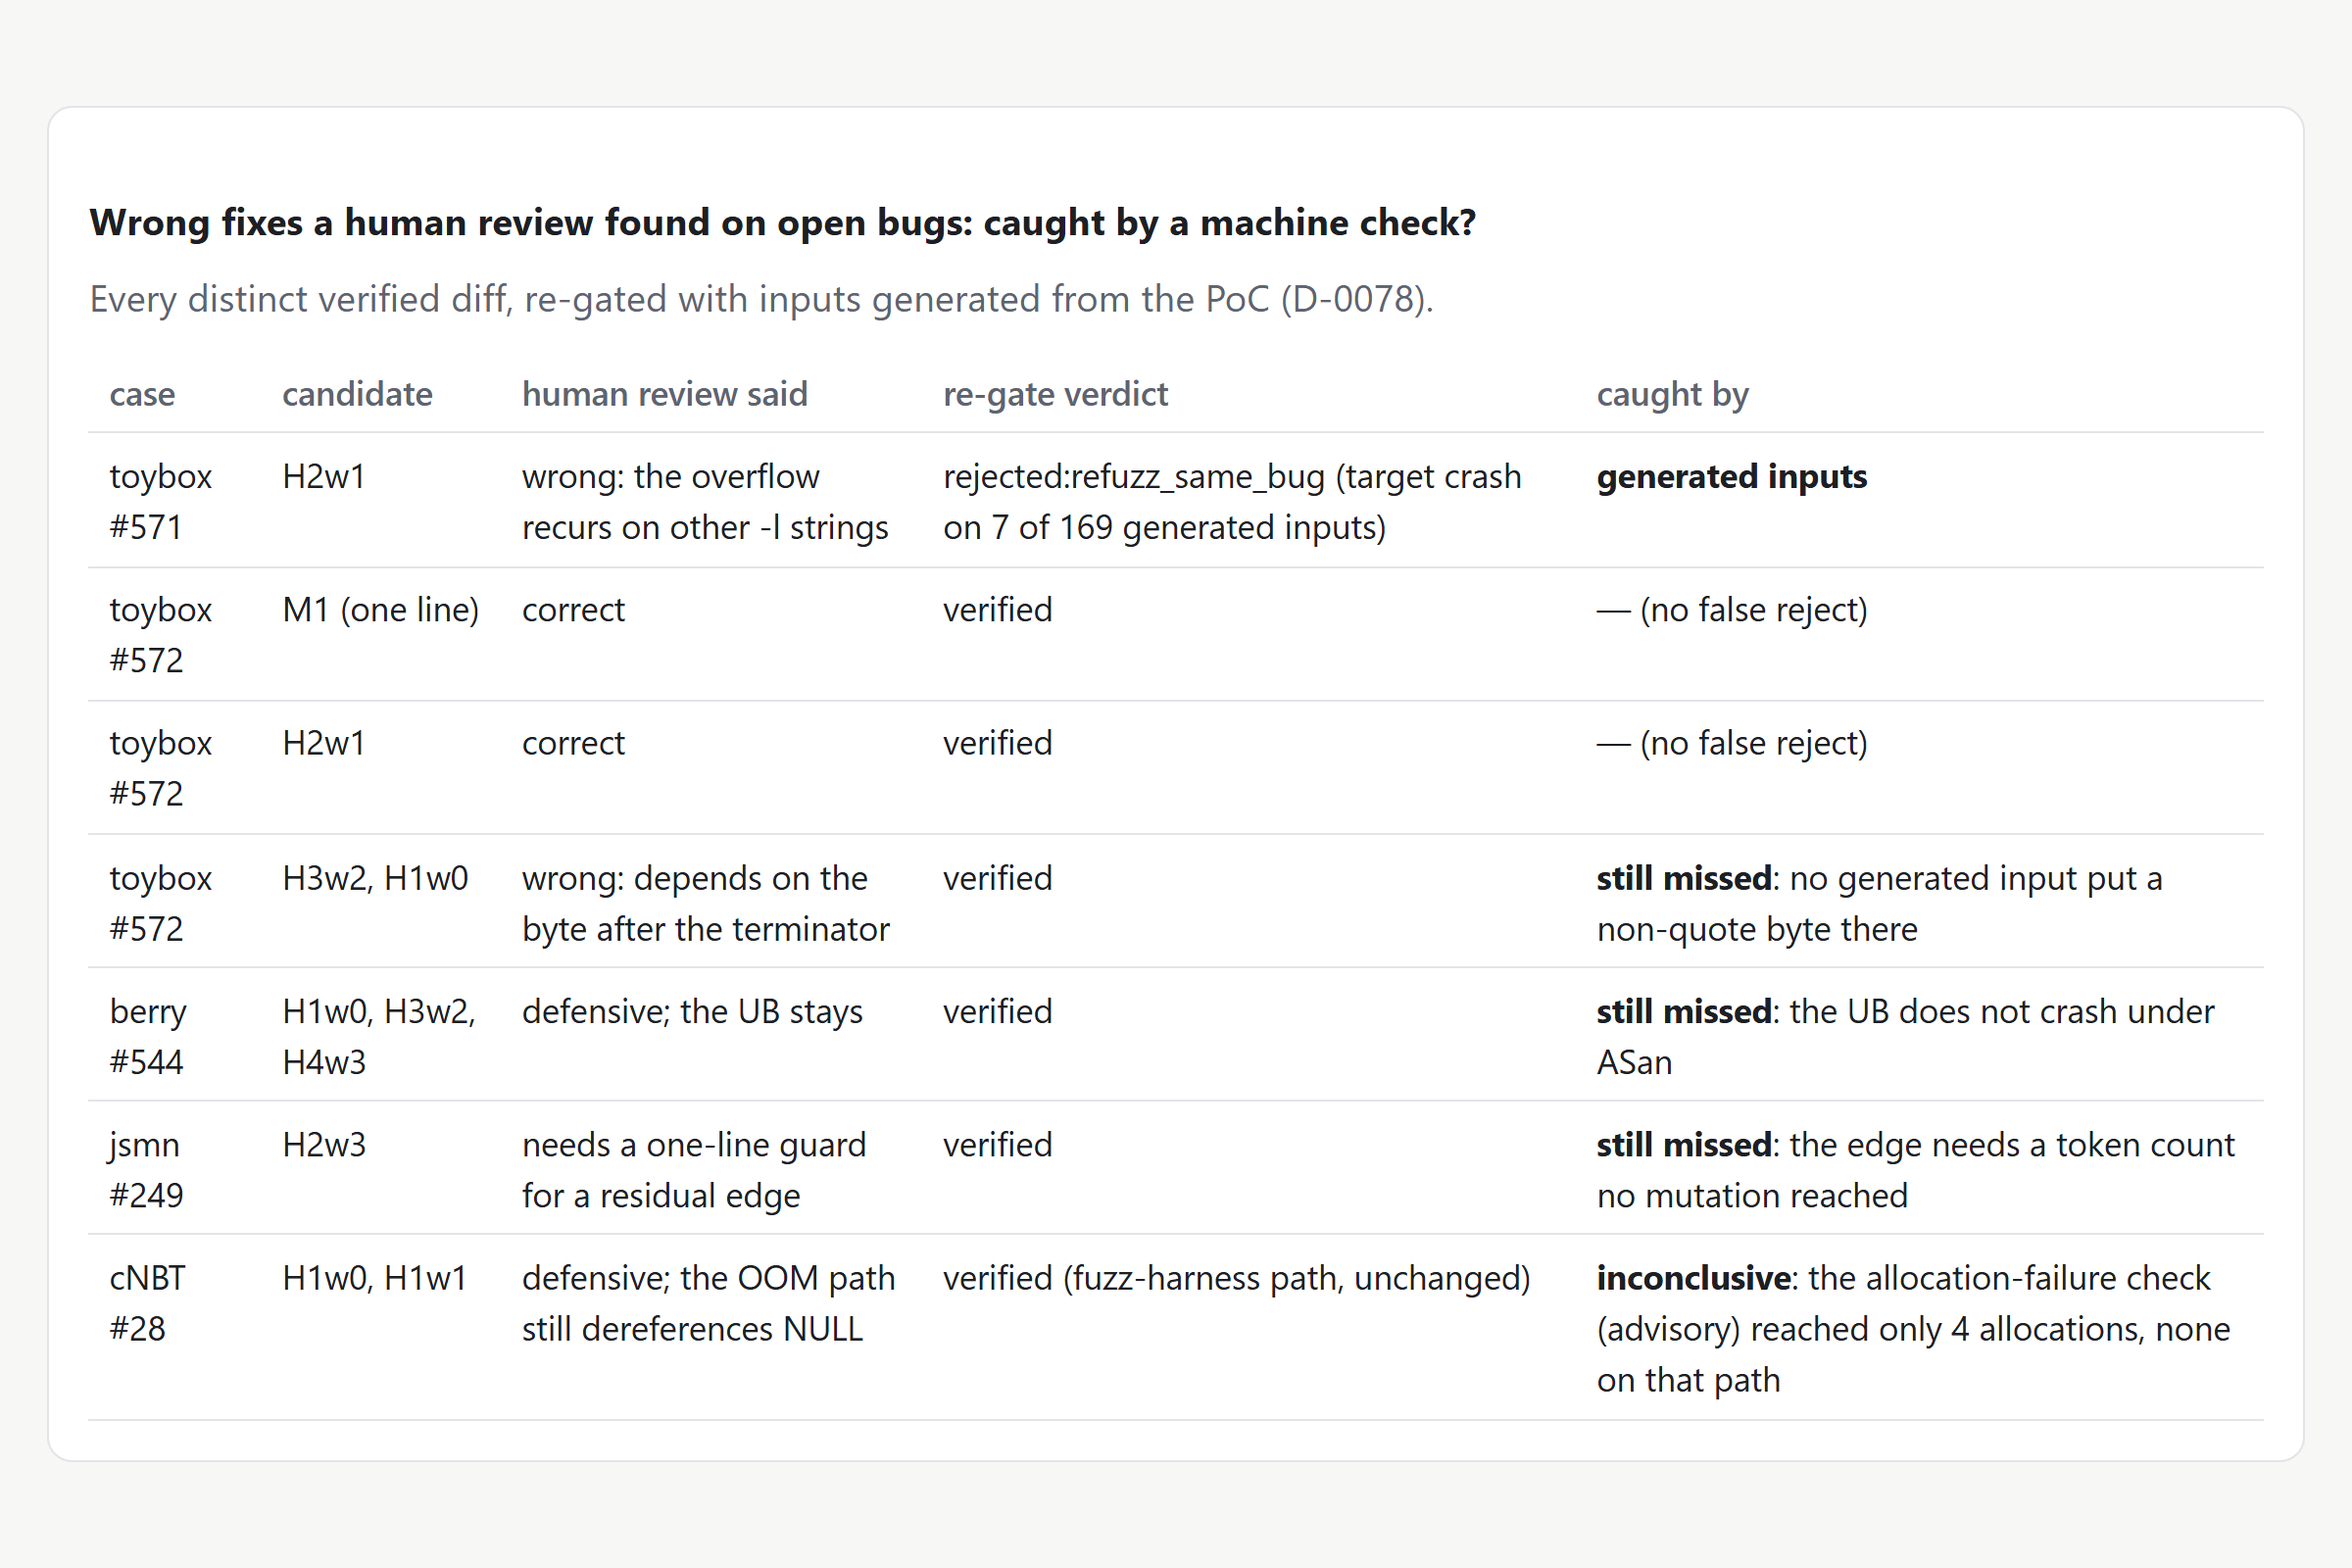
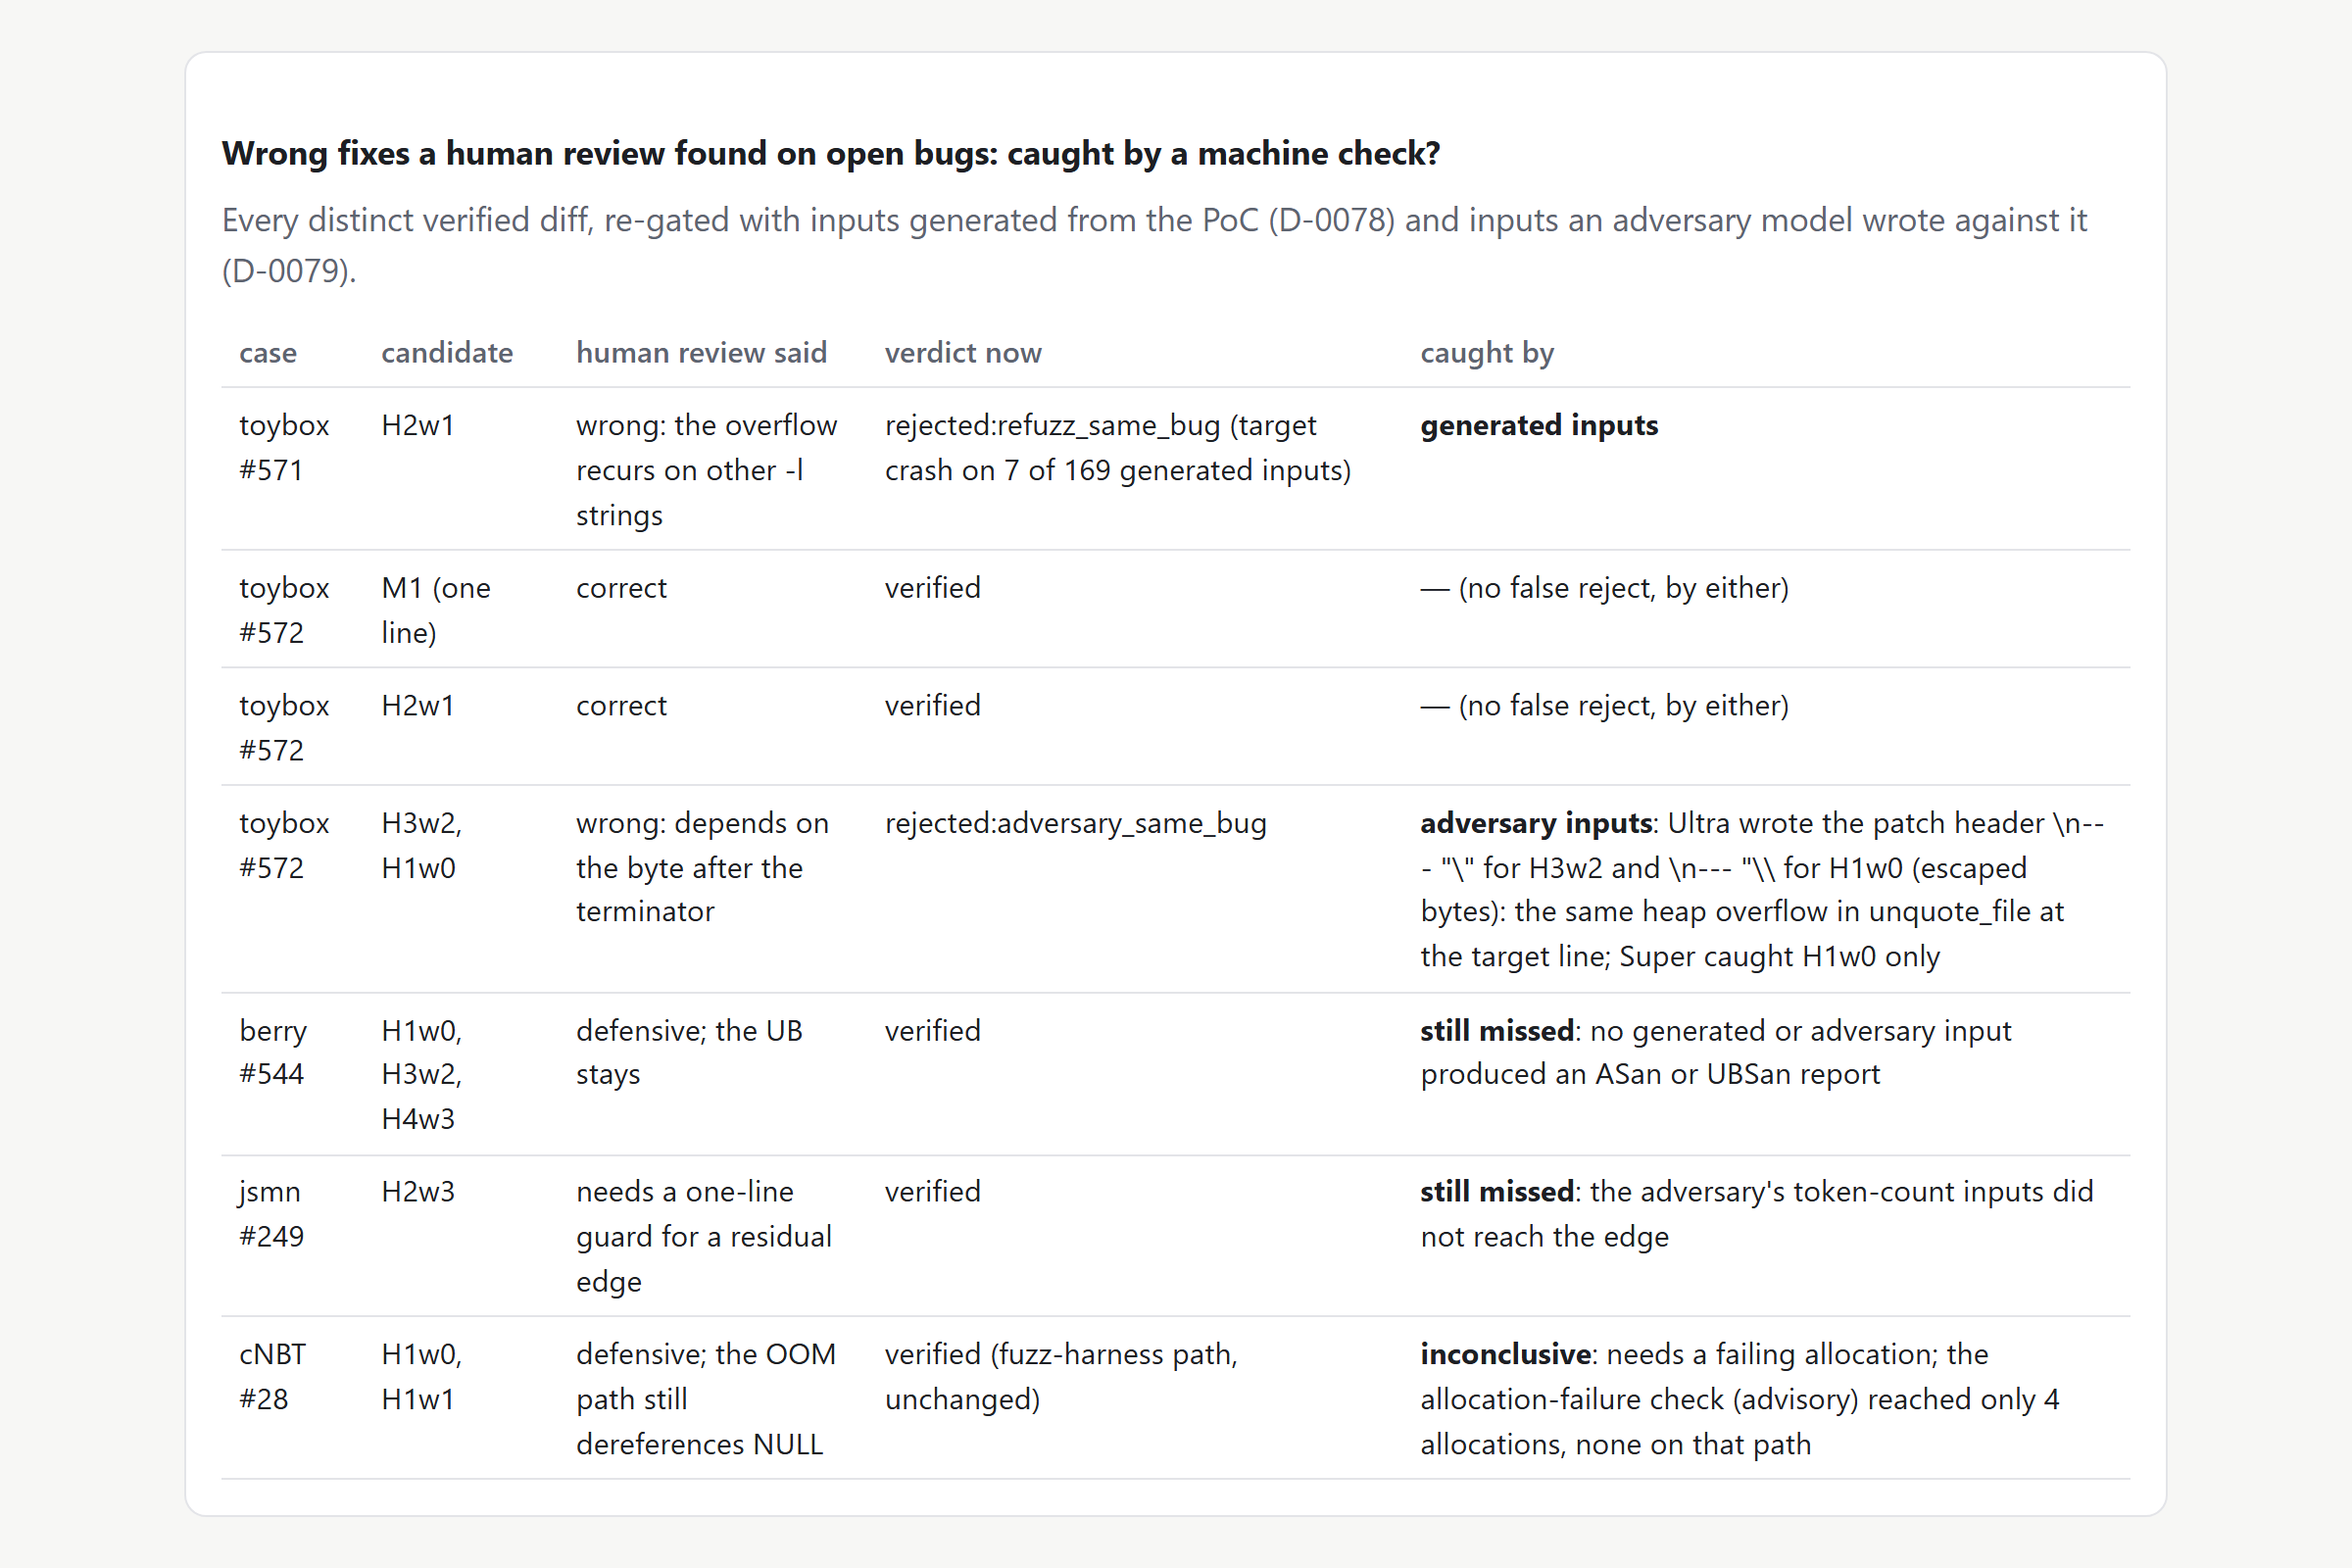
Architecture PNG regenerated with the adversary role; gallery image 6 names D-0079

diff --git a/docs/devpost/render_assets.py b/docs/devpost/render_assets.py
@@ -40,7 +40,7 @@ FINDINGS = r"""(rows) => {
   const box = document.createElement('div'); box.id = 'findings'; box.className = 'panel';
   const cell = (s) => s.replace(/\*\*(.+?)\*\*/g, '<b>$1</b>');
   box.innerHTML = `<h3>Wrong fixes a human review found on open bugs: caught by a machine check?</h3>
-    <p class="muted">Every distinct verified diff, re-gated with inputs generated from the PoC (D-0078).</p>
+    <p class="muted">Every distinct verified diff, re-gated with inputs generated from the PoC (D-0078) and inputs an adversary model wrote against it (D-0079).</p>
     <table class="matrix"><tr>${rows[0].map((h) => `<th>${h}</th>`).join('')}</tr>
     ${rows.slice(1).map((r) => `<tr>${r.map((c) => `<td>${cell(c)}</td>`).join('')}</tr>`).join('')}</table>`;
   document.querySelector('main').append(box);
